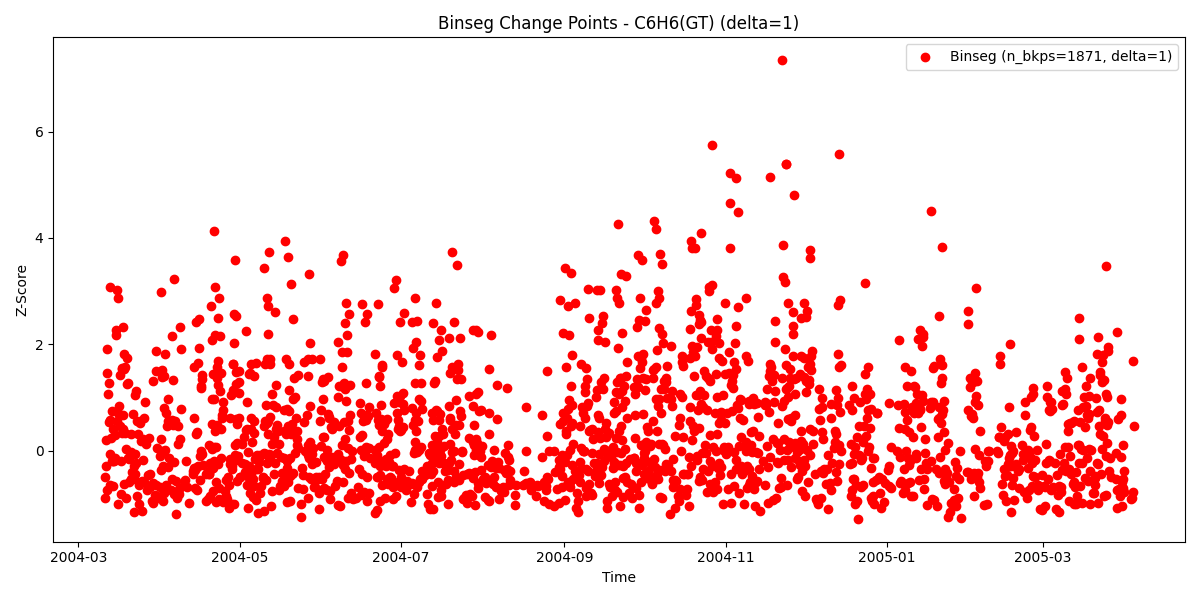
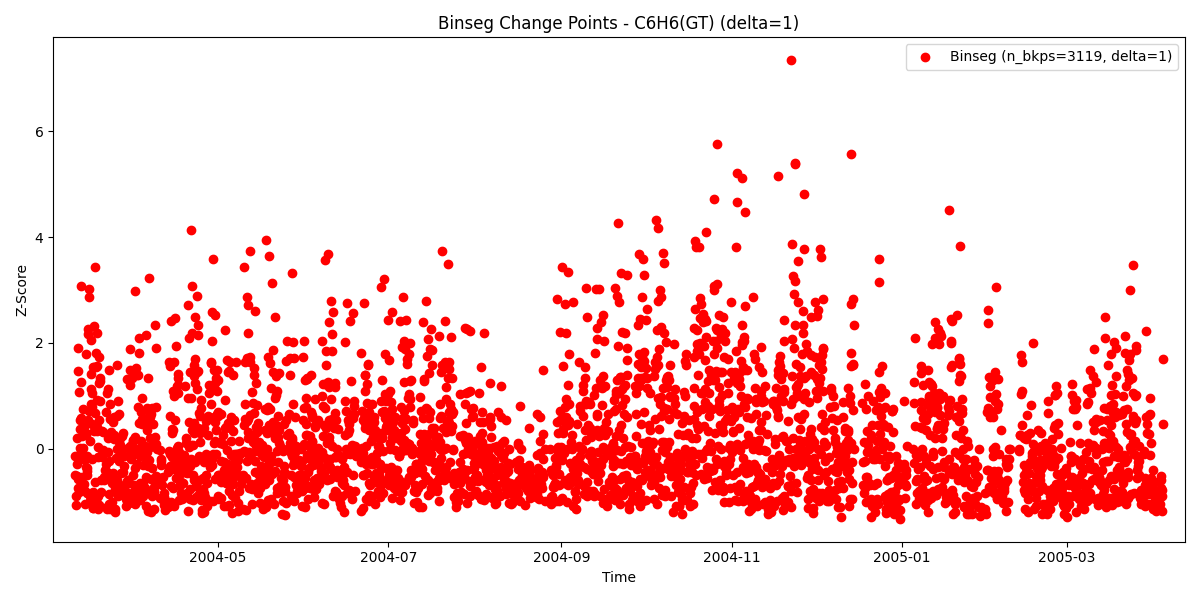
Fixed error with max breakpoints

diff --git a/ruptures_binseg.py b/ruptures_binseg.py
@@ -57,7 +57,11 @@ for col in selected:
         # if delta != 5:
         #     continue
 
-        n_bkps = cp_sax
+        # Cap breakpoints to something sane
+        max_bkps = L // 3
+        n_bkps = min(cp_sax, max_bkps)
+        if(n_bkps == max_bkps):
+            print(max_bkps, cp_sax, col, delta)
 
         algo = rpt.Binseg(
             model=model,
